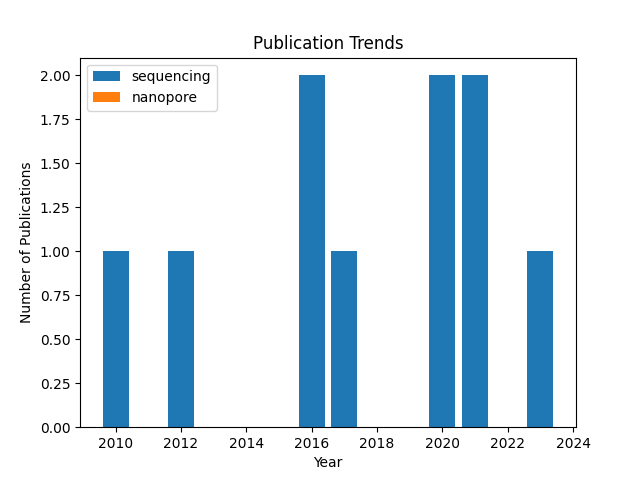
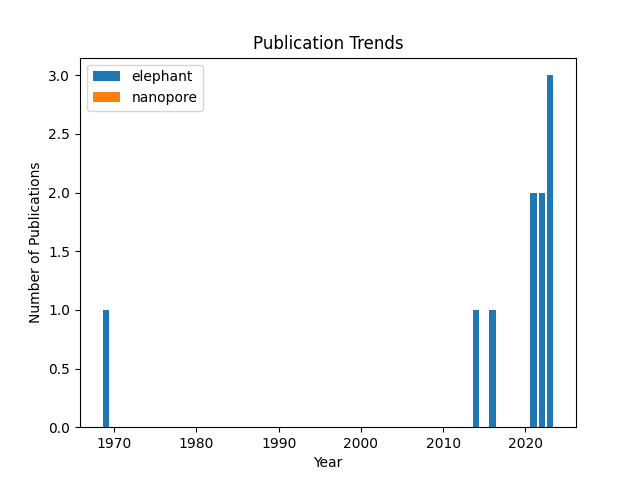
v

diff --git a/app.py b/app.py
@@ -1,8 +1,7 @@
-# Import necessary libraries
 import streamlit as st
 from bs4 import BeautifulSoup as soup
 import requests as req
-import PyPDF4
+import PyPDF4  # Changed to PyPDF4 for compatibility with PDF processing
 from io import BytesIO
 import os
 import re
@@ -18,87 +17,142 @@ st.title('PubMed Article Analysis Tool')
 st.sidebar.header('User Input Parameters')
 search_terms = st.sidebar.text_input('Search Keywords', 'prokaryote sequencing')
 technology_keywords = st.sidebar.text_input('Technology Keywords', 'Illumina Nanopore')
-def dl_intel(url, pure_url):
-  DOI_trash = 'DOI_trash.txt'
-  with open(DOI_trash, 'w') as DOI_file:
-      client = req.get(url)
-      htmldata = client.text
-      db = soup(htmldata, "html.parser")
-      locator = db.findAll('a', {'class': 'docsum-title'}, href=True)
-      for link in locator:
-          DOI = link['href'].split('/')[-1]
-          response = req.get(f"{pure_url}{DOI}/")
-          db_2 = soup(response.text, "html.parser")
-          locator_date = db_2.find('span', {'class': 'cit'})
-          # Check if the date span exists before trying to access its text
-          if locator_date:
-              date = locator_date.text.split(';')[0].strip()
-          else:
-              date = "Unknown"  # Use a placeholder or handle the absence as needed
 
-          DOI_file.write(f"{DOI}\t{date}\n")
+
+def dl_intel(url, pure_url):
+    DOI_trash = open('DOI_trash.txt', 'w')
+    try:
+        client = req.get(url)
+        htmldata = client.text
+        client.close()
+        db = soup(htmldata, "html.parser")
+        locator = db.findAll('a', {'class': 'docsum-title'}, href=True)
+        locator_2 = re.findall(r'(?<=href="/)\w+', str(locator))
+        links = [i for i in locator_2]
+        clean_links = [str(pure_url + str(i.strip()) + '/') for i in links]
+
+        for i in clean_links:
+            try:
+                site_2 = ul.Request(i)
+                client_2 = ul.urlopen(i)
+                htmldata_2 = client_2.read()
+                client_2.close()
+                db_2 = soup(htmldata_2, "html.parser")
+                locator_date = db_2.findAll('span', {'class': 'cit'})
+                date = str(re.findall("\d{4}", str(locator_date))[0]) if locator_date else "Unknown"
+                locator_4 = db_2.findAll('a', {'class': 'id-link'})
+                for n in locator_4:
+                    responseTxt_4 = n.text.encode('UTF-8')
+                    responseTxt_4 = str(responseTxt_4.strip())
+                    responseTxt_4 = responseTxt_4[2:-1]
+                    DOI_trash.write(responseTxt_4 + '\t' + date + '\n')
+            except Exception as e:
+                print(f"Error retrieving {i}: {e}")
+    except Exception as e:
+        print(f"Failed to fetch data from {url}: {e}")
+    finally:
+        DOI_trash.close()
+    return True
+
 
 def switch_page(url, pure_url):
-  # Limit to a certain number of pages for the demo
-  limite = 1  # Use a small limit for demonstration purposes
-  Results = 'Results.txt'
-  with open(Results, 'w') as res_file:
-      for count in range(1, limite + 1):
-          print(f"Processing page {count}...")
-          dl_intel(url, pure_url)
-          with open('DOI_trash.txt', 'r') as K:
-              for lines in K:
-                  res_file.write(lines)
-
-def sci(keywords):
-  Results = 'Results.txt'
-  Searched_material = 'Searched_material.txt'
-  with open(Results, 'r', encoding='utf-8') as F, open(Searched_material, 'w', encoding='utf-8') as SM:
-      for line in F:
-          parts = line.strip().split('\t')
-          if len(parts) >= 2:
-              doi, date = parts[:2]  # Ensure we only unpack the first two values
-              link = f'https://doi.org/{doi}'
-              try:
-                  retrieved_data = req.get(link, timeout=10)
-                  my_raw_data = retrieved_data.content
-                  if b'%PDF' in my_raw_data:
-                      SM.write(f"{link}\t{date}\tPDF\n")
-                  else:
-                      SM.write(f"{link}\t{date}\tHTML\n")
-              except Exception as e:
-                  print(f"Failed to retrieve {link}: {e}")
-          else:
-              # Handle lines that don't have the expected format
-              print(f"Skipping line due to unexpected format: {line}")
+    client = req.get(url)
+    htmldata = client.text
+    client.close()
+    db = soup(htmldata, "html.parser")
+    locator = db.findAll('span', {'class': 'value'})
+    limite = int(re.findall('[0-9]+', str(locator[0]))[0]) // 10 + 1
+    count = 1
+    Results = open('Results.txt', 'w')
+    while count <= limite:
+        print(f"Processing page {count}/{limite} ({np.round((count/limite)*100)}%)")
+        dl_intel(url, pure_url)
+        url = url + '&page=' + str(count)
+        count += 1
+        K = open('DOI_trash.txt', 'r')
+        for lines in K.readlines():
+            Results.write(lines)
+        K.close()
+    Results.close()
 
 
-def tendency():
-  Searched_material = 'Searched_material.txt'
-  with open(Searched_material, 'r', encoding='utf-8') as SM:
-      dates = [line.split('\t')[1] for line in SM]
-      years = [date.split('-')[0] for date in dates if '-' in date]
-      year_count = {year: years.count(year) for year in set(years)}
-      years_sorted = sorted(year_count.keys())
-      counts_sorted = [year_count[year] for year in years_sorted]
+def process_article(raw_data, keywords):
+    output = ''
+    if b'%PDF' in raw_data:
+        try:
+            data = BytesIO(raw_data)
+            read_pdf = PyPDF4.PdfReader(data)
+            for page in range(len(read_pdf.pages)):
+                txt = read_pdf.pages[page].extract_text()
+                txt = txt.encode('UTF-8', errors='ignore')
+                output += str(txt.strip())
+        except Exception:
+            pass
+    else:
+        db_txt = soup(htmldata, "html.parser")
+        txt = db_txt.find_all(string=True)
+        blacklist = ['[document]', 'noscript', 'header', 'html', 'meta', 'head', 'input', 'script', 'footer', 'style']
+        for t in txt:
+            if t.parent.name not in blacklist:
+                output += '{} '.format(t)
+        output = re.sub("\n|\r|\rn", '', output)
+        output = output[output.find('Abstract'):]
+        output = str(output[:output.find('References')]).lower()
+    dico_keywords = {keyword: output.count(keyword.lower()) for keyword in keywords}
+    return output, dico_keywords
 
-      plt.figure(figsize=(10, 6))
-      plt.bar(years_sorted, counts_sorted, color='skyblue')
-      plt.xlabel('Year')
-      plt.ylabel('Number of Articles')
-      plt.title('Number of Articles Retrieved Per Year')
-      plt.xticks(rotation=45)
-      plt.tight_layout()
-      return plt
-keywords = search_terms.split() + technology_keywords.split()
-url = f"https://pubmed.ncbi.nlm.nih.gov/?term={'+'.join(search_terms.split())}&filter=simsearch2.ffrft"
 
-if st.button('Retrieve and Analyze Articles'):
-    with st.spinner('Fetching articles from PubMed...'):
-        switch_page(url, 'https://pubmed.ncbi.nlm.nih.gov/')
-        sci(keywords)
-    st.success('Articles retrieved and sorted. Click on "Show Publication Trends" to view the analysis.')
+def print_results(dico_keywords, count_bad_links):
+    for key, res in dico_keywords.items():
+        print(key, res)
+    print(f'Failed to retrieve links: {count_bad_links}')
 
-if st.button('Show Publication Trends'):
-    fig = tendency()
-    st.pyplot(fig)
+
+def tendency(keywords):
+    results = open('Searched_material.txt', 'r', encoding='utf-8')
+    list_material_date = [(i.split('\t')[1].strip('\n'), i.split('\t')[2].strip('\n')) for i in results.readlines()]
+    date_list = [int(i[0]) for i in list_material_date]
+
+    # Check if there are any dates available before plotting
+    if not date_list:
+        print("No dates found in data. Publication trends plot cannot be generated.")
+        return
+
+    date_range = (min(date_list), max(date_list))
+    dates = np.arange(date_range[0], date_range[1] + 1)
+    count_dates = {keyword: [0] * len(dates) for keyword in keywords}
+
+    for date, keyword in list_material_date:
+        if keyword in count_dates:
+            index = int(date) - date_range[0]
+            count_dates[keyword][index] += 1
+
+    fig, ax = plt.subplots()
+    for keyword, counts in count_dates.items():
+        ax.bar(dates, counts, label=keyword)
+
+    ax.set_xlabel('Year')
+    ax.set_ylabel('Number of Publications')
+    ax.set_title('Publication Trends')
+    ax.legend()
+    plt.savefig('trend_bar_graph.png')
+    results.close()
+
+
+if __name__ == "__main__":
+    keywords, url = prompt_for_input()
+    dir_output = 'FRANK/'  # Assuming this directory already exists or handling its creation might be necessary
+    os.chdir(dir_output)
+    pure_url = 'https://pubmed.ncbi.nlm.nih.gov/'
+
+    switch_page(url, pure_url)
+    print('Articles retrieved successfully, beginning sorting...')
+    sci(keywords)
+    print('Sorting done, preparing visual representation...')
+
+    # Button to show publication trends
+    if st.button('Show Publication Trends'):
+        tendency(keywords)
+        st.image('trend_bar_graph.png', caption='Publication Trends')  # Display the plot
+
+    print('Figure is ready. Check the trend_bar_graph.png file for the bar graph.')
